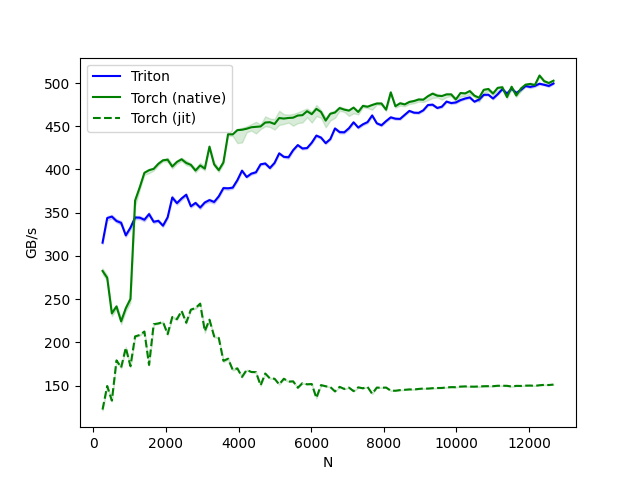
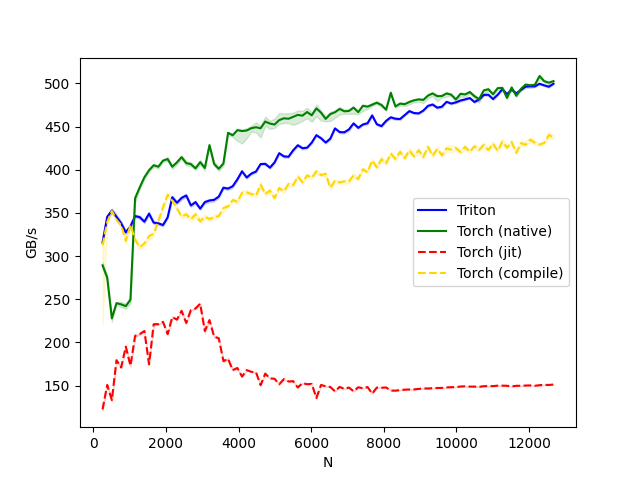
Add torch-compile + softmax_benchmark

diff --git a/Triton/code/utils/benchmark.py b/Triton/code/utils/benchmark.py
@@ -3,7 +3,7 @@ import torch
 import triton
 from pathlib import Path
 
-def run_benchmark(triton_func, torch_func, torch_jit_func, plot_name="softmax-performance", save_path='code/benchmark'):
+def run_benchmark(triton_func, torch_func, torch_jit_func, torch_compile_func, plot_name="softmax-performance", save_path='code/benchmark'):
     save_path = os.path.join(save_path,plot_name)
     try:
         os.makedirs(save_path)
@@ -14,9 +14,9 @@ def run_benchmark(triton_func, torch_func, torch_jit_func, plot_name="softmax-pe
             x_names=['N'],  # argument names to use as an x-axis for the plot
             x_vals=[128 * i for i in range(2, 100)],  # different possible values for `x_name`
             line_arg='provider',  # argument name whose value corresponds to a different line in the plot
-            line_vals=['triton', 'torch-native', 'torch-jit'],  # possible values for `line_arg`
-            line_names=["Triton", "Torch (native)", "Torch (jit)"],  # label name for the lines
-            styles=[('blue', '-'), ('green', '-'), ('green', '--')],  # line styles
+            line_vals=['triton', 'torch-native', 'torch-jit', 'torch-compile'],  # possible values for `line_arg`
+            line_names=["Triton", "Torch (native)", "Torch (jit)", "Torch (compile)"],  # label name for the lines
+            styles=[('blue', '-'), ('green', '-'), ('red', '--'), ('gold', '--')],  # line styles
             ylabel="GB/s",  # label name for the y-axis
             plot_name=plot_name,  # dynamic plot name
             args={'M': 4096},  # values for function arguments not in `x_names` and `y_name`
@@ -33,6 +33,9 @@ def run_benchmark(triton_func, torch_func, torch_jit_func, plot_name="softmax-pe
             ms, min_ms, max_ms = triton.testing.do_bench(lambda: triton_func(x), quantiles=quantiles)
         if provider == 'torch-jit':
             ms, min_ms, max_ms = triton.testing.do_bench(lambda: torch_jit_func(x), quantiles=quantiles)
+        
+        if provider == 'torch-compile':
+            ms, min_ms, max_ms = triton.testing.do_bench(lambda: torch_compile_func(x), quantiles=quantiles)
         
         gbps = lambda ms: 2 * x.nelement() * x.element_size() * 1e-9 / (ms * 1e-3)
         return gbps(ms), gbps(max_ms), gbps(min_ms)

diff --git a/Triton/code/benchmark/softmax_benchmark.py b/Triton/code/benchmark/softmax_benchmark.py
@@ -5,6 +5,7 @@ from functions.softmax import naive_softmax,triton_softmax
 triton_func = triton_softmax  
 torch_func = torch.softmax
 torch_jit_func = naive_softmax
+torch_compile_func = torch.compile(torch_jit_func)
 
 # Run the benchmark with the functions and custom plot name
-run_benchmark(triton_func=triton_func, torch_func=torch_func, torch_jit_func=naive_softmax, plot_name="benchmark-softmax")
+run_benchmark(triton_func=triton_func, torch_func=torch_func, torch_jit_func=torch_jit_func, torch_compile_func=torch_compile_func, plot_name="benchmark-softmax")
